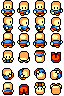
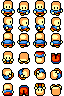
Rolling

diff --git a/src/player.ts b/src/player.ts
@@ -9,6 +9,9 @@ class Player extends CollisionObject {
 
 
     private flip : Flip;
+    private rolling : boolean;
+    private rollTimer : number;
+    private faceDirection : Vector2;
 
 
     constructor(x : number, y : number) {
@@ -20,15 +23,52 @@ class Player extends CollisionObject {
         this.friction = new Vector2(0.1, 0.1);
         this.center = new Vector2(0, 7);
 
+        this.rolling = false;
+        this.rollTimer = 0.0;let dir = new Vector2();
+        this.faceDirection = new Vector2(0, 1);
+
         this.flip = Flip.None;
+    }
+
+
+    // Star trolling?
+    private startRolling(ev : GameEvent) {
+
+        const ROLL_SPEED = 1.5;
+        const ROLL_TIME = 30;
+    
+        if (ev.getAction("fire1") == State.Pressed) {
+
+            this.speed = this.faceDirection.clone().scalarMultiply(ROLL_SPEED);
+            this.target = this.speed.clone();
+
+            this.rolling = true;
+            this.rollTimer = ROLL_TIME;
+
+            this.spr.setFrame(0, this.spr.getRow() + 3);
+
+            return true;
+        }
+
+        return false;
     }
 
 
     private control(ev : GameEvent) {
 
         const BASE_SPEED = 1.0;
+        const EPS = 0.01;
+
+        if (this.rolling) return;
+
+        if (this.startRolling(ev))
+            return;
 
         this.target = ev.getStick().scalarMultiply(BASE_SPEED);
+        if (this.target.length() > EPS) {
+
+            this.faceDirection = this.target.normalize();
+        }
     }
 
 
@@ -42,8 +82,15 @@ class Player extends CollisionObject {
         // animated but moves if the player keeps tapping
         // keys
 
-        let row = this.spr.getRow();
         let animSpeed = 0;
+
+        if (this.rolling) {
+
+            this.spr.animate(this.spr.getRow(), 0, 3, 4, ev.step);
+            return;
+        }
+
+        let row = this.spr.getRow() % 3;
 
         // Determine direction (read: row)
         if (this.target.length() > EPS) {
@@ -70,10 +117,33 @@ class Player extends CollisionObject {
     }
 
 
+    private updateTimers(ev : GameEvent) {
+
+        const MINIMUM_ROLL_TIME = 10;
+
+        // Rolling
+        if (this.rollTimer > 0.0) {
+
+            if ((ev.getAction("fire1") & State.DownOrPressed) == 0) {
+
+                this.rollTimer = Math.min(this.rollTimer, MINIMUM_ROLL_TIME);
+            }
+
+            this.rollTimer -= ev.step;
+            if (this.rollTimer <= 0) {
+
+                this.rollTimer = 0;
+                this.rolling = false;
+            }
+        }
+    }
+
+
     protected updateLogic(ev : GameEvent) {
 
         this.control(ev);
         this.animate(ev);
+        this.updateTimers(ev);
     }
 
 
@@ -85,8 +155,10 @@ class Player extends CollisionObject {
         let py = Math.round(this.pos.y);
 
         c.setGlobalAlpha(0.67);
-        c.drawBitmap(c.getBitmap("shadow"), 
-            px - shadow.width/2, py - shadow.height/2);
+        c.drawBitmapRegion(shadow, 
+            0, 0, 16, 8,
+            px - shadow.width/4, 
+            py - shadow.height/2);
         c.setGlobalAlpha();
 
         c.drawSprite(this.spr, c.getBitmap("player"),
